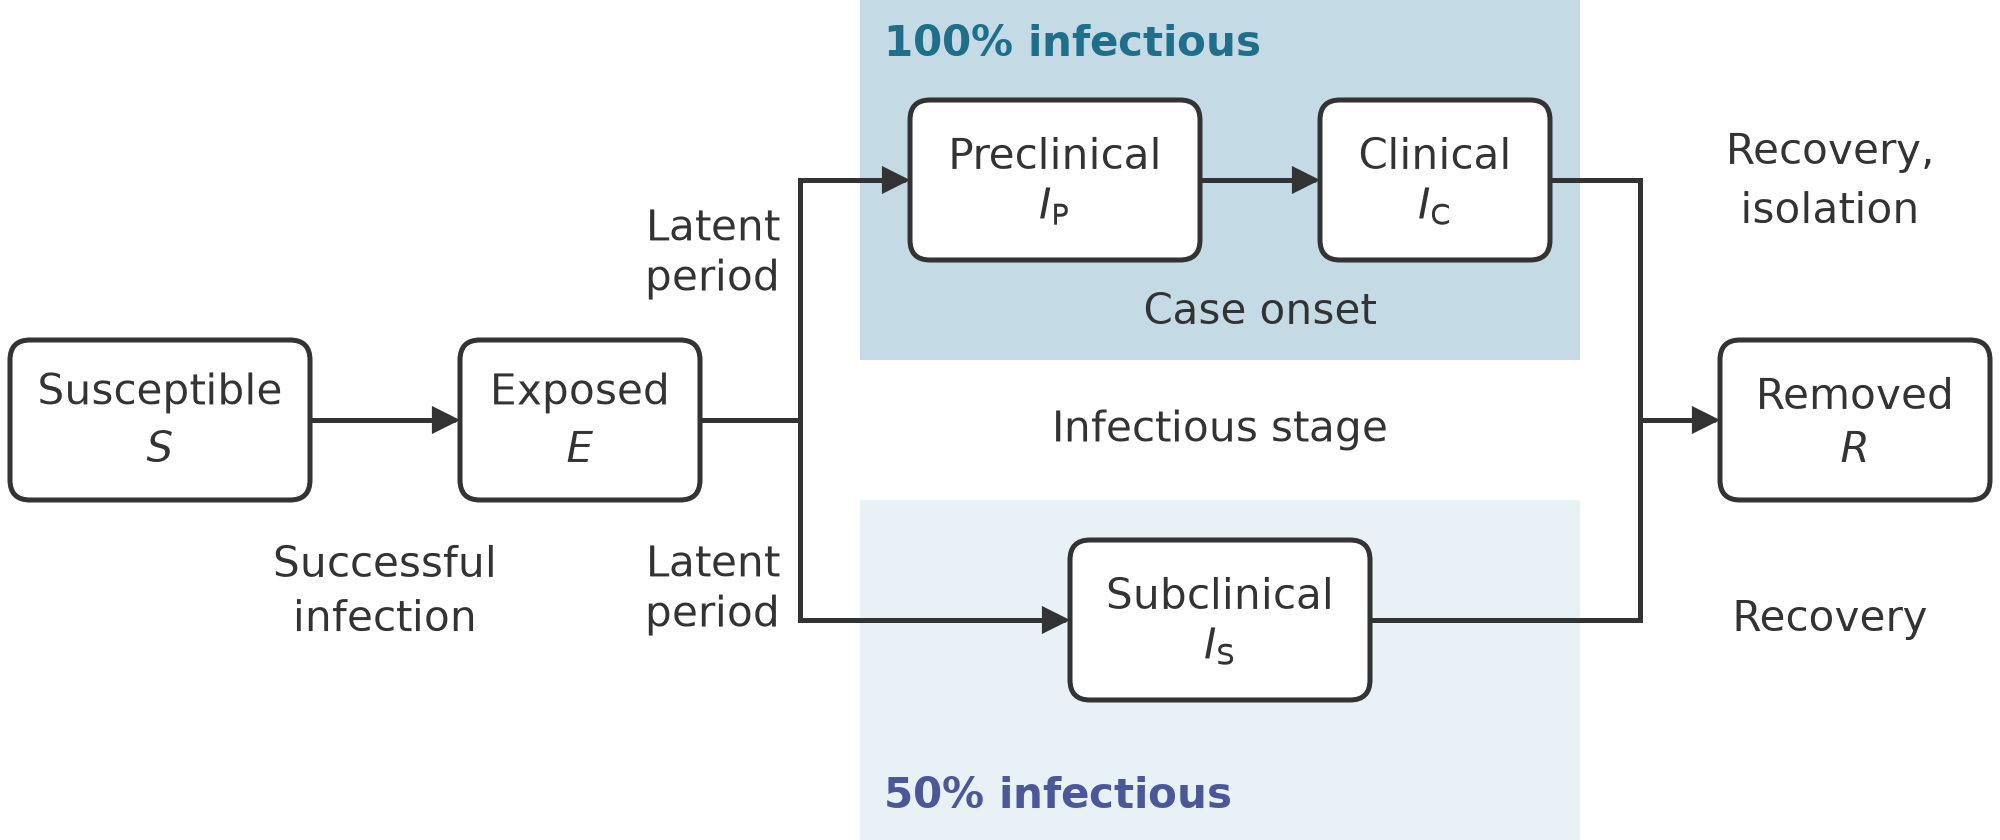
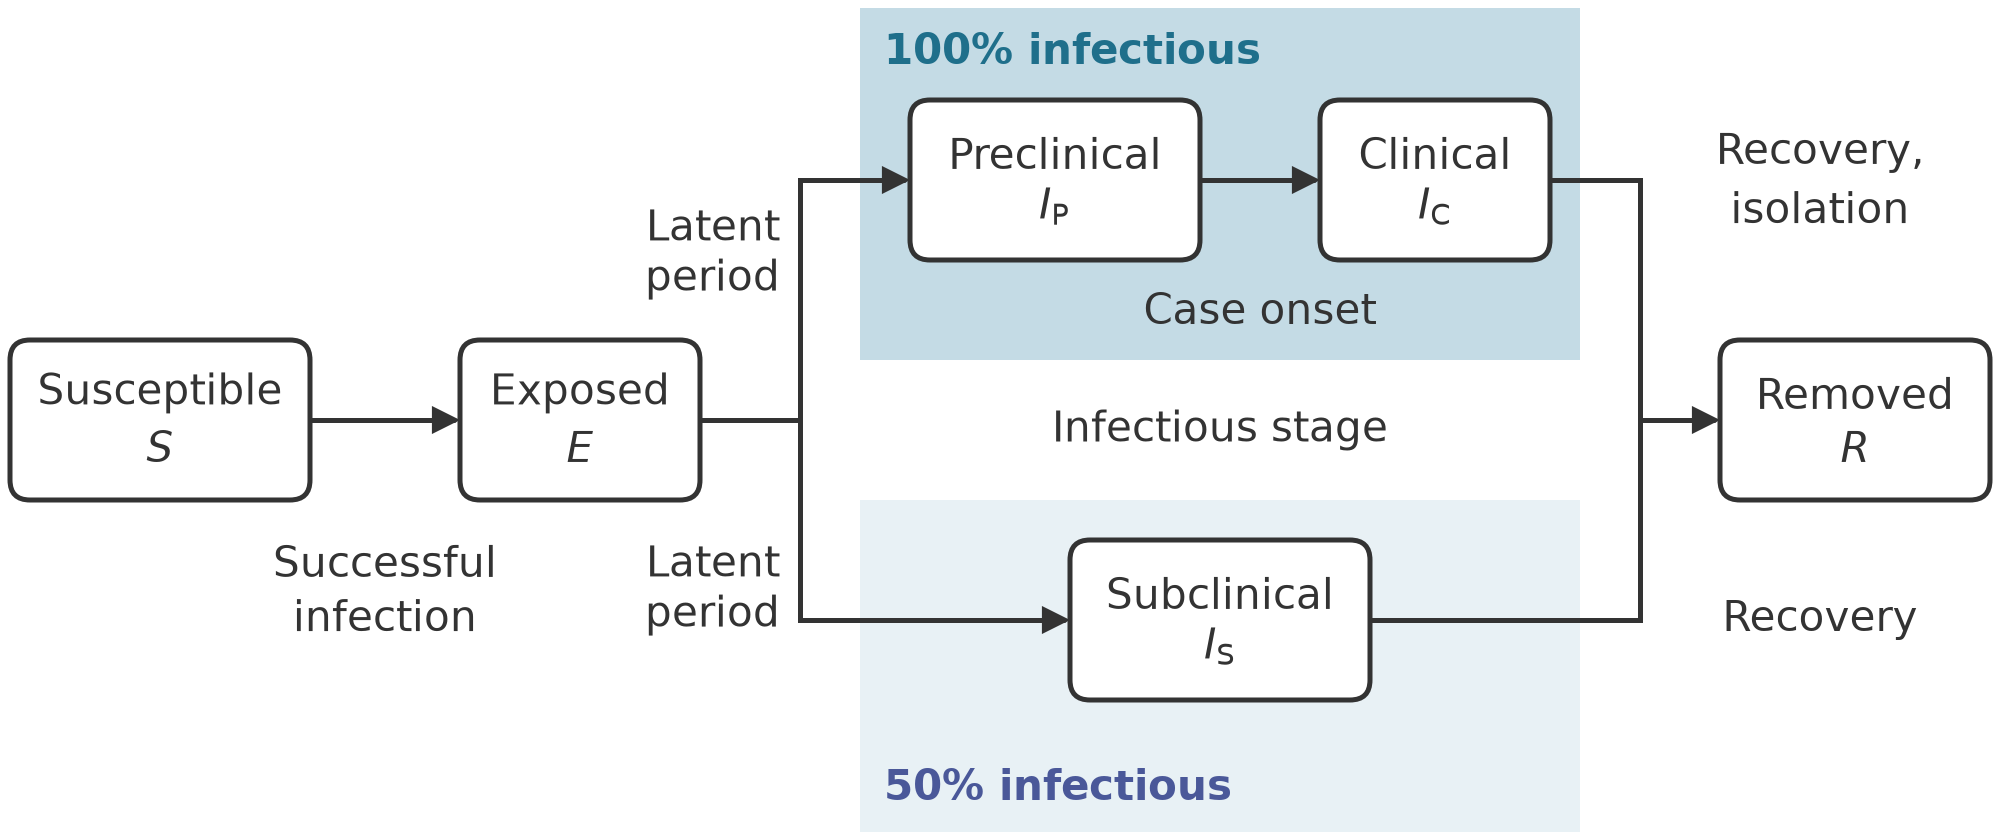
feat: redrawn Davies et al. model at full resolution

diff --git a/scripts/agents-davies-model.py b/scripts/agents-davies-model.py
@@ -59,10 +59,10 @@ def path_arrow(*points, head=True):
 
 # Infectious bands: fully infectious (top) and half infectious (bottom).
 bx0, bx1 = 43, 79
-ax.add_patch(Rectangle((bx0, 24), bx1 - bx0, 18, color=band_full, lw=0))
-ax.add_patch(Rectangle((bx0, 0), bx1 - bx0, 17, color=band_half, lw=0))
-text(bx0 + 1.2, 40, "100% infectious", teal, ha="left", fontweight="bold")
-text(bx0 + 1.2, 2.4, "50% infectious", slate, ha="left", fontweight="bold")
+ax.add_patch(Rectangle((bx0, 24), bx1 - bx0, 17.6, color=band_full, lw=0))
+ax.add_patch(Rectangle((bx0, 0.4), bx1 - bx0, 16.6, color=band_half, lw=0))
+text(bx0 + 1.2, 39.6, "100% infectious", teal, ha="left", fontweight="bold")
+text(bx0 + 1.2, 2.8, "50% infectious", slate, ha="left", fontweight="bold")
 text((bx0 + bx1) / 2, 20.5, "Infectious stage")
 
 # Compartments.
@@ -88,8 +88,8 @@ text(63, 26.6, "Case onset")
 path_arrow((77.5, top), (merge, top), (merge, mid), head=False)
 path_arrow((68.5, bot), (merge, bot), (merge, mid), head=False)
 path_arrow((merge, mid), (86, mid))
-text(91.5, 33, "Recovery,\nisolation")
-text(91.5, 11, "Recovery")
+text(91, 33, "Recovery,\nisolation")
+text(91, 11, "Recovery")
 
 fig.savefig(out, facecolor="white")
 print(out)
